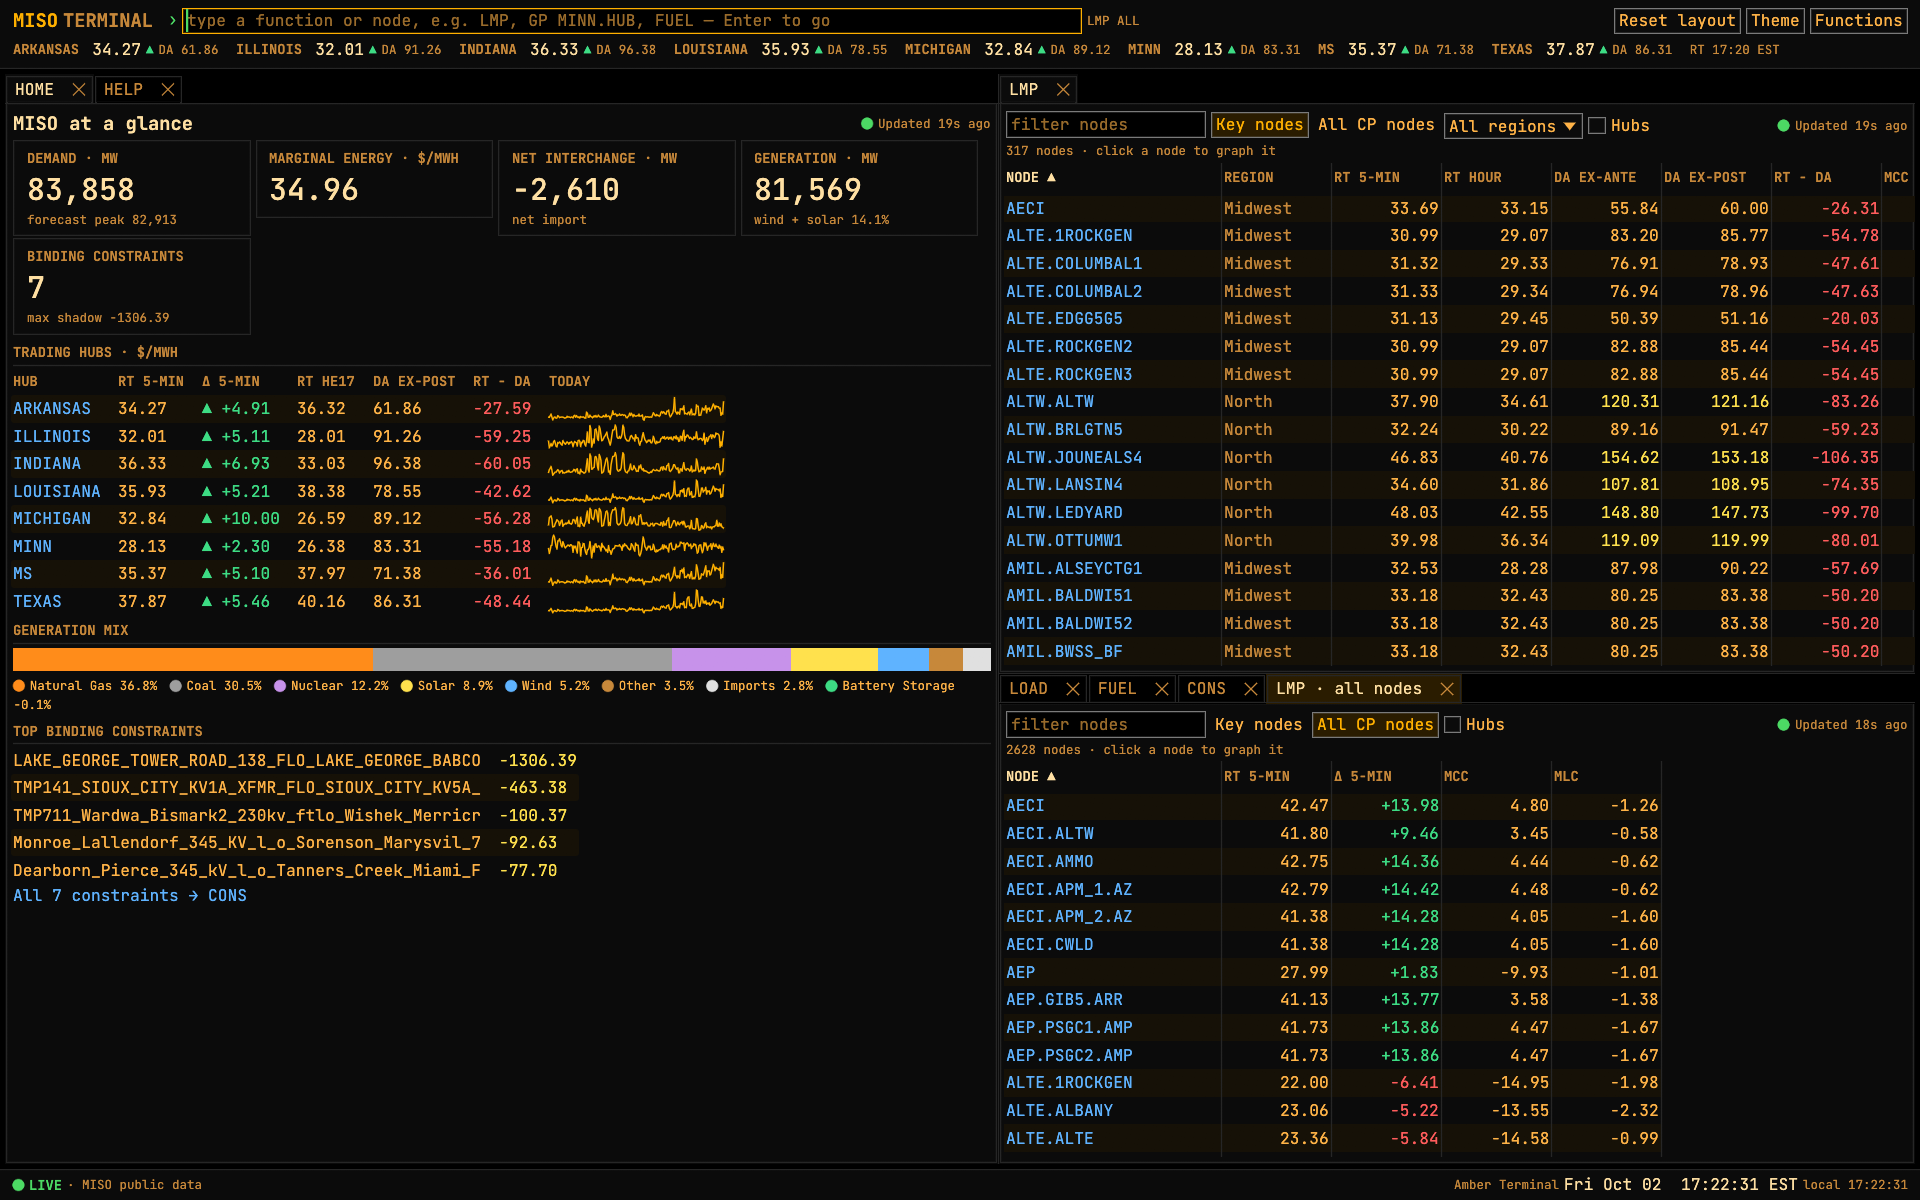
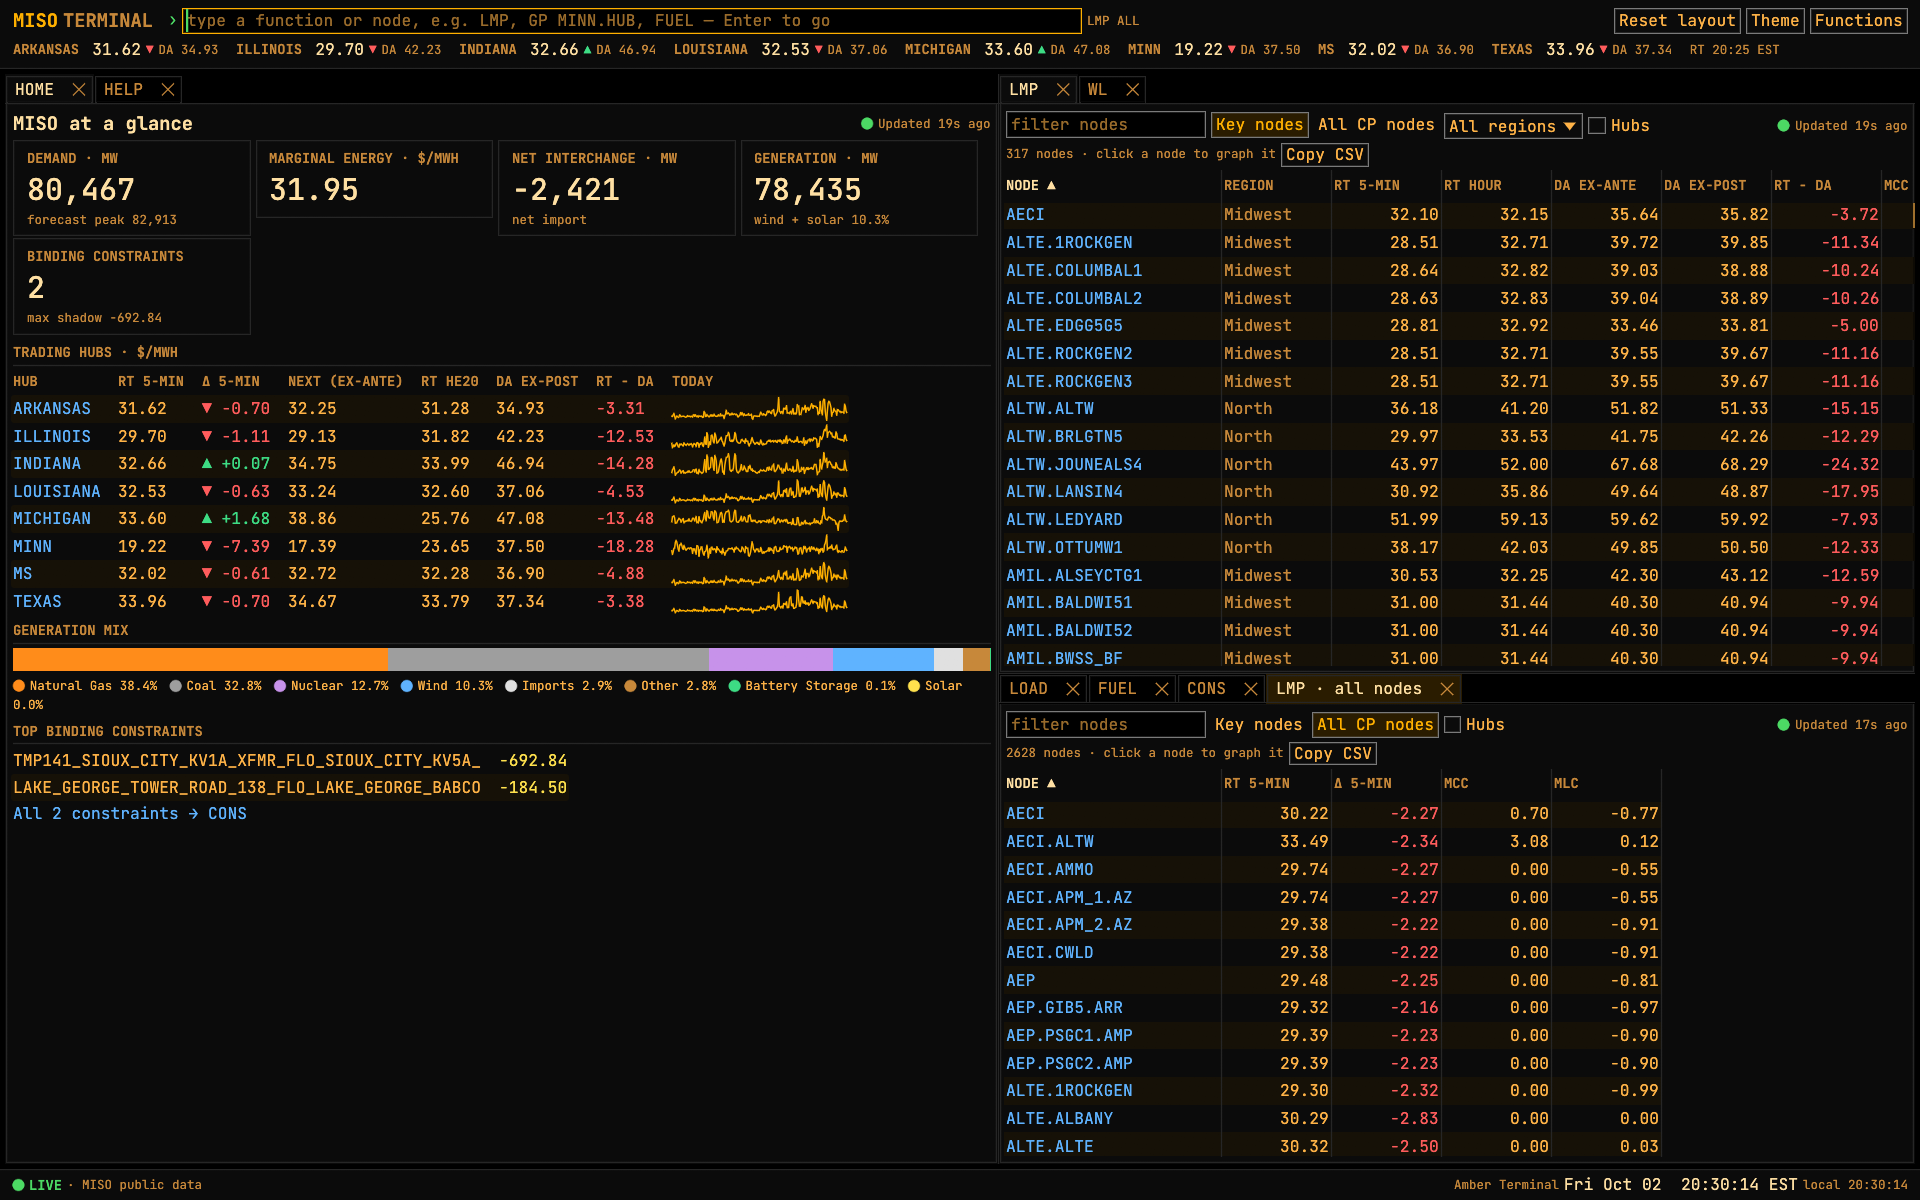
Refresh README screenshots and add MAP

diff --git a/README.md b/README.md
@@ -24,6 +24,8 @@ and never submits anything to MISO.
 |---|---|
 | ![GP history](docs/screenshots/gp-history.png) | ![Amber Terminal](docs/screenshots/amber-terminal.png) |
 
+![MAP: real-time congestion across the footprint](docs/screenshots/map.png)
+
 ## Quick start (Windows)
 
 ```powershell
